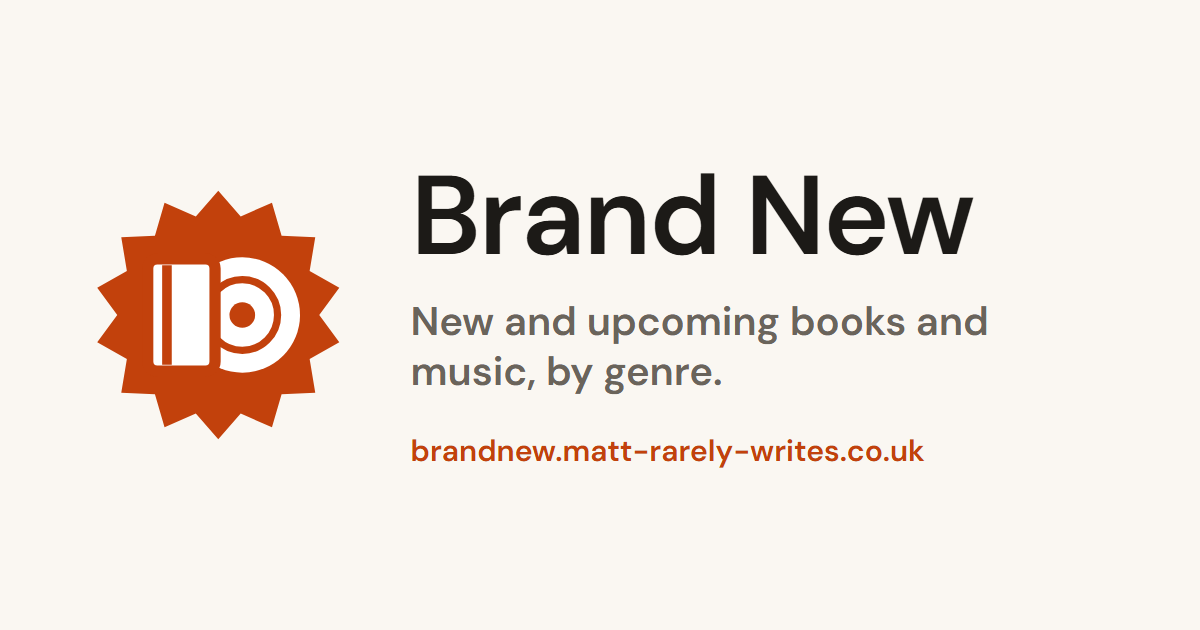
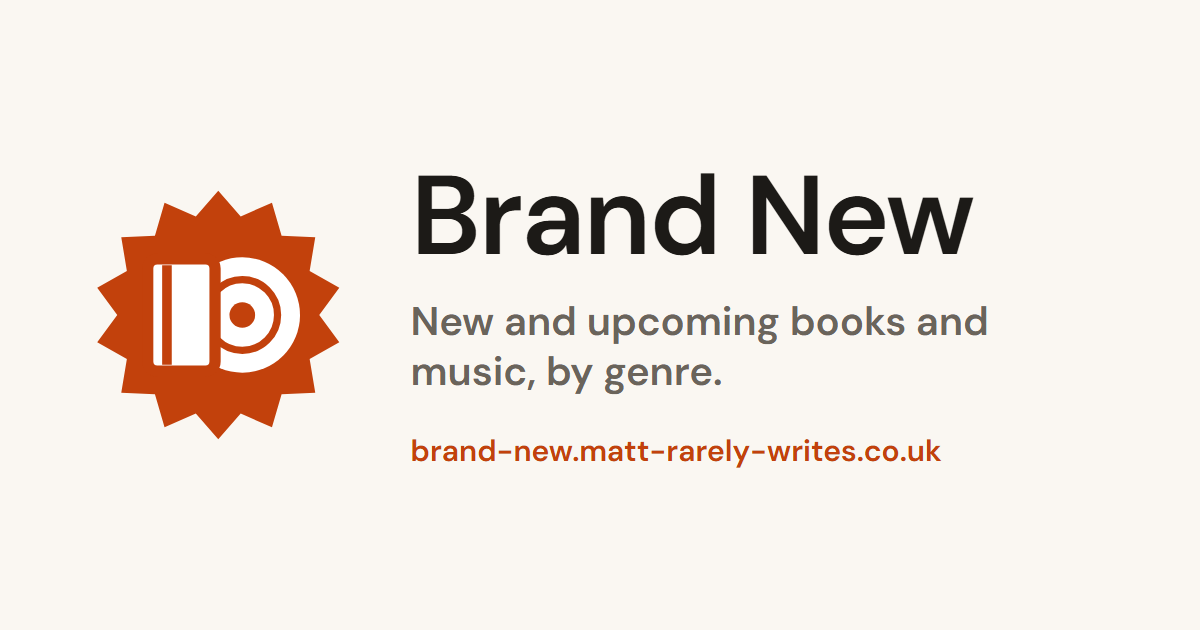
Use brand-new.matt-rarely-writes.co.uk as the site address
SITE_URL (canonical links, og:url, og:image, sitemap, robots, the
MusicBrainz/ListenBrainz User-Agent), the share image and the README
now use the hyphenated subdomain chosen for go-live.

Changed region(s): [[0.4008, 0.6937, 0.8017, 0.754]]

diff --git a/design/share-image.html b/design/share-image.html
@@ -21,7 +21,7 @@
 <div>
   <h1>Brand New</h1>
   <p>New and upcoming books and music, by genre.</p>
-  <p class="url">brandnew.matt-rarely-writes.co.uk</p>
+  <p class="url">brand-new.matt-rarely-writes.co.uk</p>
 </div>
 </body>
 </html>

diff --git a/tests/test_render.py b/tests/test_render.py
@@ -183,8 +183,8 @@ def test_books_and_music_have_their_own_pages(tmp_path):
 def test_link_previews(tmp_path):
     render.build(sample.releases(TODAY), datetime(2026, 9, 25, 5, 31, tzinfo=UK), tmp_path, TODAY)
     genre = (tmp_path / "books" / "horror" / "index.html").read_text(encoding="utf-8")
-    assert '<meta property="og:url" content="https://brandnew.matt-rarely-writes.co.uk/books/horror/">' in genre
-    assert re.search(r'<meta property="og:image" content="https://brandnew\.matt-rarely-writes\.co\.uk'
+    assert '<meta property="og:url" content="https://brand-new.matt-rarely-writes.co.uk/books/horror/">' in genre
+    assert re.search(r'<meta property="og:image" content="https://brand-new\.matt-rarely-writes\.co\.uk'
                      r'/static/share\.png\?v=[0-9a-f]{8}">', genre)
     assert re.search(r'<meta property="og:description" content="New horror books: \d+ out (this week|in the last '
                      r'two weeks) and \d+ due over the next three months\.">', genre)

diff --git a/brandnew/config.py b/brandnew/config.py
@@ -2,7 +2,7 @@
 from dataclasses import dataclass, field
 
 SITE_NAME = "Brand New"
-SITE_URL = "https://brandnew.matt-rarely-writes.co.uk"
+SITE_URL = "https://brand-new.matt-rarely-writes.co.uk"
 BLOG_URL = "https://www.matt-rarely-writes.co.uk"
 KOFI_URL = "https://ko-fi.com/mattrarelywrites"
 USER_AGENT = f"BrandNew/0.1 ( {SITE_URL} )"

diff --git a/README.md b/README.md
@@ -1,7 +1,7 @@
 # Brand New
 
 New and upcoming book and music releases by genre, with links to Amazon UK.
-To be hosted at https://brandnew.matt-rarely-writes.co.uk.
+To be hosted at https://brand-new.matt-rarely-writes.co.uk.
 
 Status: in development. Nothing is deployed yet.
 
